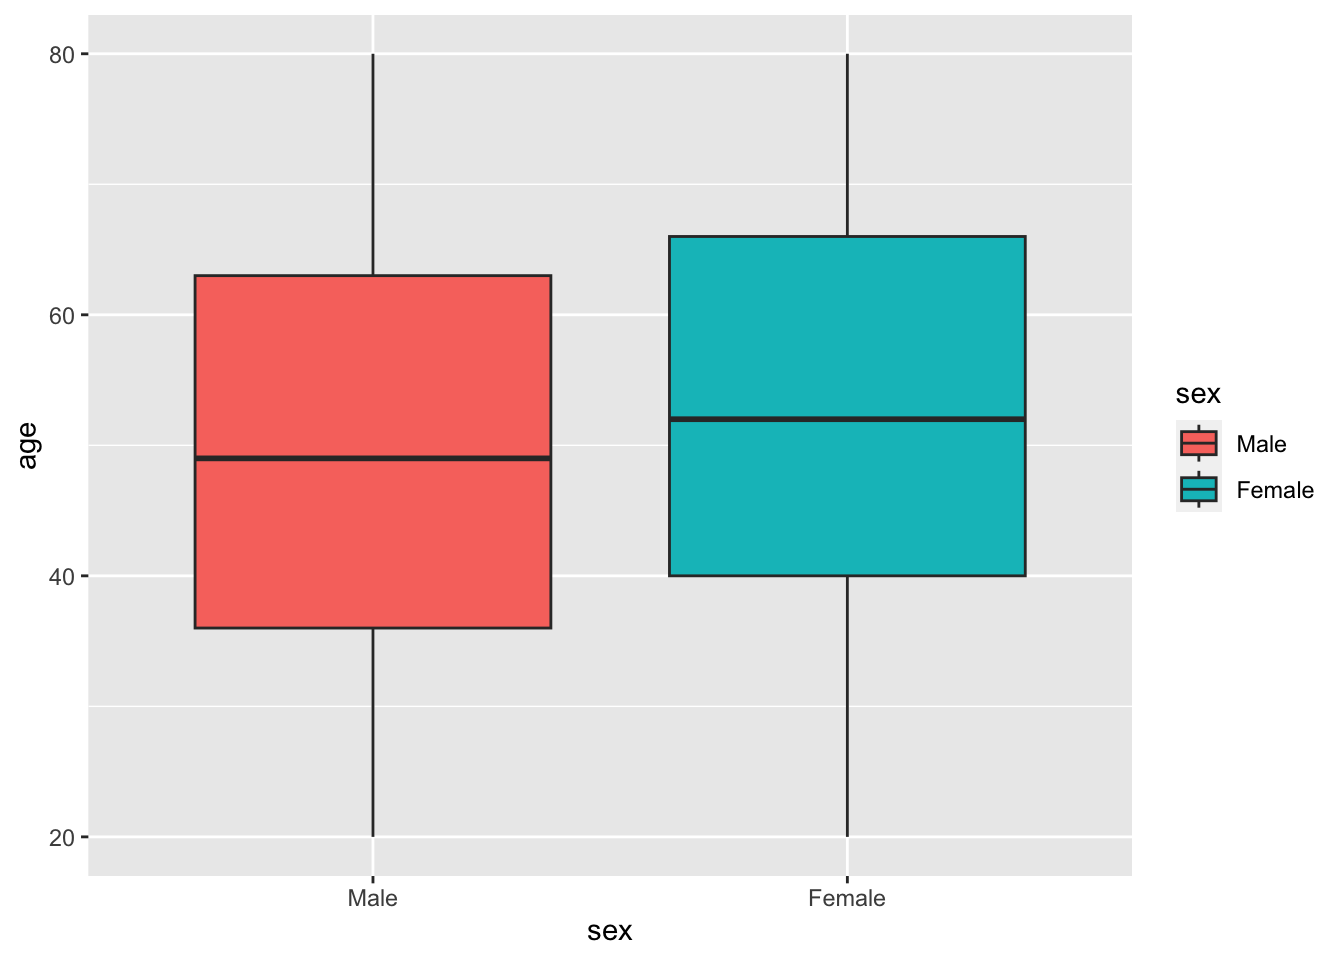
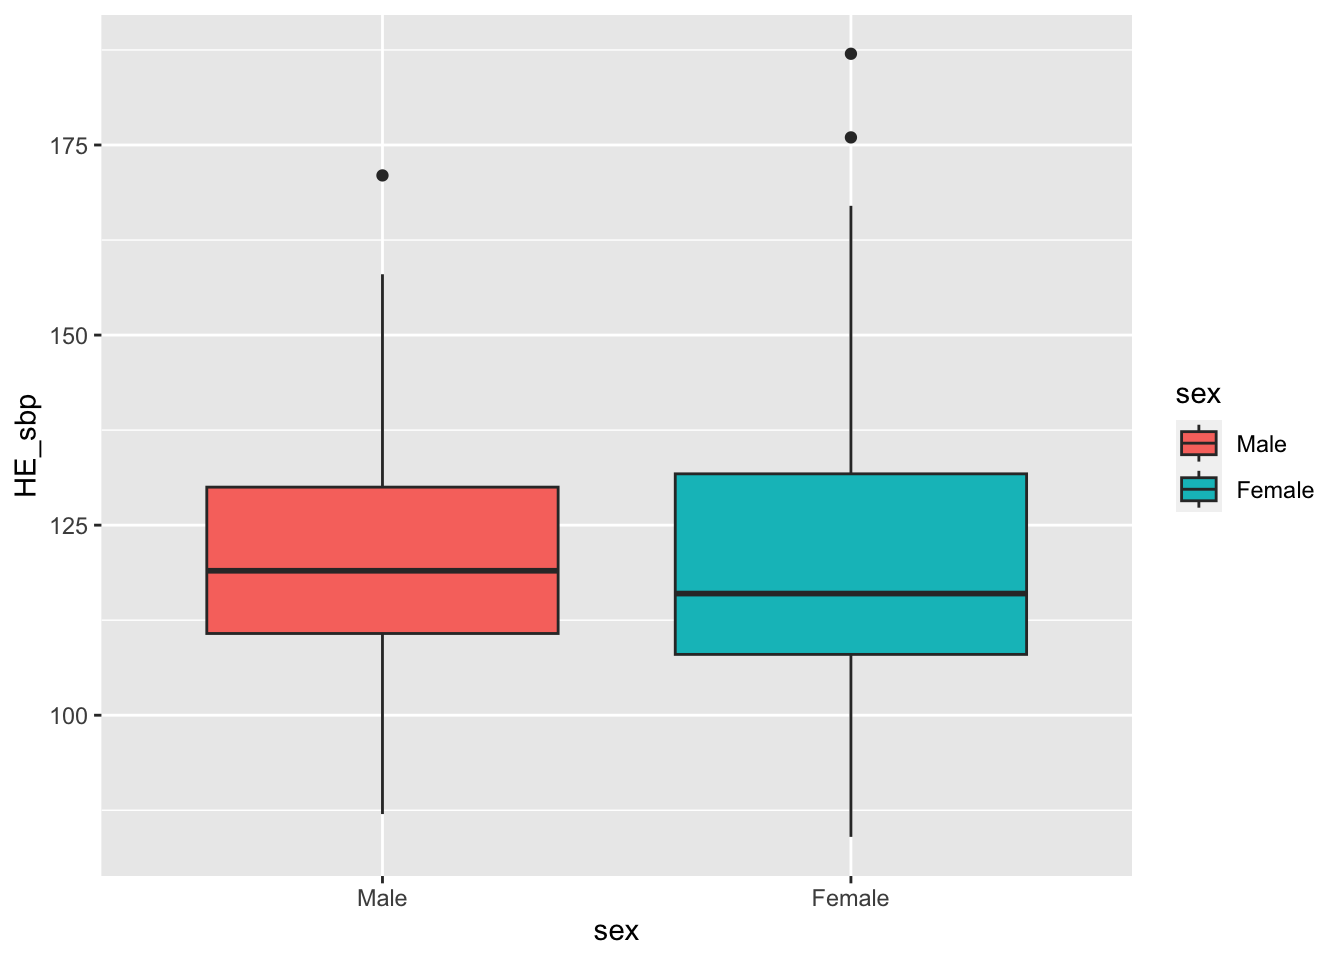
Built site for gh-pages

diff --git a/compare_two_groups.html b/compare_two_groups.html
@@ -272,14 +272,14 @@ pre > code.sourceCode > span > a:first-child::before { text-decoration: underlin
 <span id="cb3-4"><a href="#cb3-4" aria-hidden="true" tabindex="-1"></a><span class="co"># 1: Male, 2: Female</span></span>
 <span id="cb3-5"><a href="#cb3-5" aria-hidden="true" tabindex="-1"></a><span class="fu">levels</span>(data<span class="sc">$</span>sex)<span class="ot">=</span><span class="fu">c</span>(<span class="st">"Male"</span>,<span class="st">"Female"</span>)</span>
 <span id="cb3-6"><a href="#cb3-6" aria-hidden="true" tabindex="-1"></a></span>
-<span id="cb3-7"><a href="#cb3-7" aria-hidden="true" tabindex="-1"></a>knitr<span class="sc">::</span><span class="fu">kable</span>(<span class="fu">head</span>(data[,<span class="fu">c</span>(<span class="st">"ID"</span>,<span class="st">"sex"</span>,<span class="st">"age"</span>,<span class="st">"HE_sbp1"</span>,<span class="st">"HE_sbp2"</span>)], <span class="dv">10</span>))</span></code><button title="Copy to Clipboard" class="code-copy-button"><i class="bi"></i></button></pre></div>
+<span id="cb3-7"><a href="#cb3-7" aria-hidden="true" tabindex="-1"></a>knitr<span class="sc">::</span><span class="fu">kable</span>(<span class="fu">head</span>(data[,<span class="fu">c</span>(<span class="st">"ID"</span>,<span class="st">"sex"</span>,<span class="st">"HE_sbp"</span>,<span class="st">"HE_sbp1"</span>,<span class="st">"HE_sbp2"</span>)], <span class="dv">10</span>))</span></code><button title="Copy to Clipboard" class="code-copy-button"><i class="bi"></i></button></pre></div>
 <div class="cell-output-display">
 <table class="table table-sm table-striped small">
 <thead>
 <tr class="header">
 <th style="text-align: left;">ID</th>
 <th style="text-align: left;">sex</th>
-<th style="text-align: right;">age</th>
+<th style="text-align: right;">HE_sbp</th>
 <th style="text-align: right;">HE_sbp1</th>
 <th style="text-align: right;">HE_sbp2</th>
 </tr>
@@ -288,127 +288,132 @@ pre > code.sourceCode > span > a:first-child::before { text-decoration: underlin
 <tr class="odd">
 <td style="text-align: left;">A531220402</td>
 <td style="text-align: left;">Female</td>
-<td style="text-align: right;">45</td>
+<td style="text-align: right;">103</td>
 <td style="text-align: right;">106</td>
 <td style="text-align: right;">104</td>
 </tr>
 <tr class="even">
 <td style="text-align: left;">L501322401</td>
 <td style="text-align: left;">Male</td>
-<td style="text-align: right;">51</td>
+<td style="text-align: right;">113</td>
 <td style="text-align: right;">120</td>
 <td style="text-align: right;">112</td>
 </tr>
 <tr class="odd">
 <td style="text-align: left;">D510288401</td>
 <td style="text-align: left;">Female</td>
-<td style="text-align: right;">23</td>
+<td style="text-align: right;">111</td>
 <td style="text-align: right;">114</td>
 <td style="text-align: right;">112</td>
 </tr>
 <tr class="even">
 <td style="text-align: left;">M503205101</td>
 <td style="text-align: left;">Female</td>
-<td style="text-align: right;">68</td>
+<td style="text-align: right;">135</td>
 <td style="text-align: right;">140</td>
 <td style="text-align: right;">136</td>
 </tr>
 <tr class="odd">
 <td style="text-align: left;">B512234004</td>
 <td style="text-align: left;">Male</td>
-<td style="text-align: right;">28</td>
+<td style="text-align: right;">107</td>
 <td style="text-align: right;">110</td>
 <td style="text-align: right;">104</td>
 </tr>
 <tr class="even">
 <td style="text-align: left;">K501305402</td>
 <td style="text-align: left;">Female</td>
-<td style="text-align: right;">56</td>
+<td style="text-align: right;">143</td>
 <td style="text-align: right;">144</td>
 <td style="text-align: right;">144</td>
 </tr>
 <tr class="odd">
 <td style="text-align: left;">E506278202</td>
 <td style="text-align: left;">Female</td>
-<td style="text-align: right;">66</td>
+<td style="text-align: right;">129</td>
 <td style="text-align: right;">138</td>
 <td style="text-align: right;">132</td>
 </tr>
 <tr class="even">
 <td style="text-align: left;">A509211902</td>
 <td style="text-align: left;">Male</td>
-<td style="text-align: right;">49</td>
+<td style="text-align: right;">136</td>
 <td style="text-align: right;">134</td>
 <td style="text-align: right;">136</td>
 </tr>
 <tr class="odd">
 <td style="text-align: left;">H542222102</td>
 <td style="text-align: left;">Female</td>
-<td style="text-align: right;">71</td>
+<td style="text-align: right;">187</td>
 <td style="text-align: right;">194</td>
 <td style="text-align: right;">188</td>
 </tr>
 <tr class="even">
 <td style="text-align: left;">N505230601</td>
 <td style="text-align: left;">Female</td>
-<td style="text-align: right;">36</td>
+<td style="text-align: right;">99</td>
 <td style="text-align: right;">98</td>
 <td style="text-align: right;">98</td>
 </tr>
 </tbody>
 </table>
 </div>
-<div class="sourceCode cell-code" id="cb4"><pre class="sourceCode r code-with-copy"><code class="sourceCode r"><span id="cb4-1"><a href="#cb4-1" aria-hidden="true" tabindex="-1"></a>pp <span class="ot">&lt;-</span> <span class="fu">ggplot</span>(data,<span class="fu">aes</span>(<span class="at">x=</span>sex, <span class="at">y=</span> age, <span class="at">fill=</span>sex)) <span class="sc">+</span> <span class="fu">geom_boxplot</span>()</span>
+<div class="sourceCode cell-code" id="cb4"><pre class="sourceCode r code-with-copy"><code class="sourceCode r"><span id="cb4-1"><a href="#cb4-1" aria-hidden="true" tabindex="-1"></a>pp <span class="ot">&lt;-</span> <span class="fu">ggplot</span>(data,<span class="fu">aes</span>(<span class="at">x=</span>sex, <span class="at">y=</span> HE_sbp, <span class="at">fill=</span>sex)) <span class="sc">+</span> <span class="fu">geom_boxplot</span>()</span>
 <span id="cb4-2"><a href="#cb4-2" aria-hidden="true" tabindex="-1"></a>pp</span></code><button title="Copy to Clipboard" class="code-copy-button"><i class="bi"></i></button></pre></div>
+<div class="cell-output cell-output-stderr">
+<pre><code>Warning: Removed 2 rows containing non-finite values (`stat_boxplot()`).</code></pre>
+</div>
 <div class="cell-output-display">
 <p><img src="compare_two_groups_files/figure-html/unnamed-chunk-1-1.png" class="img-fluid" width="672"></p>
 </div>
-<div class="sourceCode cell-code" id="cb5"><pre class="sourceCode r code-with-copy"><code class="sourceCode r"><span id="cb5-1"><a href="#cb5-1" aria-hidden="true" tabindex="-1"></a><span class="co"># 등분산 가정 검토</span></span>
-<span id="cb5-2"><a href="#cb5-2" aria-hidden="true" tabindex="-1"></a><span class="fu">leveneTest</span>(age <span class="sc">~</span> sex, <span class="at">data=</span>data, <span class="at">center =</span> mean)</span></code><button title="Copy to Clipboard" class="code-copy-button"><i class="bi"></i></button></pre></div>
+<div class="sourceCode cell-code" id="cb6"><pre class="sourceCode r code-with-copy"><code class="sourceCode r"><span id="cb6-1"><a href="#cb6-1" aria-hidden="true" tabindex="-1"></a><span class="co"># 등분산 가정 검토</span></span>
+<span id="cb6-2"><a href="#cb6-2" aria-hidden="true" tabindex="-1"></a><span class="fu">leveneTest</span>(HE_sbp <span class="sc">~</span> sex, <span class="at">data=</span>data, <span class="at">center =</span> mean)</span></code><button title="Copy to Clipboard" class="code-copy-button"><i class="bi"></i></button></pre></div>
 <div class="cell-output cell-output-stdout">
 <pre><code>Levene's Test for Homogeneity of Variance (center = mean)
-       Df F value Pr(&gt;F)
-group   1  1.2878  0.257
-      498               </code></pre>
+       Df F value   Pr(&gt;F)   
+group   1  9.1647 0.002596 **
+      496                    
+---
+Signif. codes:  0 '***' 0.001 '**' 0.01 '*' 0.05 '.' 0.1 ' ' 1</code></pre>
 </div>
-<div class="sourceCode cell-code" id="cb7"><pre class="sourceCode r code-with-copy"><code class="sourceCode r"><span id="cb7-1"><a href="#cb7-1" aria-hidden="true" tabindex="-1"></a><span class="co"># 등분산 가정이 만족할 때</span></span>
-<span id="cb7-2"><a href="#cb7-2" aria-hidden="true" tabindex="-1"></a><span class="fu">t.test</span>(age<span class="sc">~</span>sex, <span class="at">data=</span>data, <span class="at">var.equal =</span> <span class="cn">TRUE</span>)</span></code><button title="Copy to Clipboard" class="code-copy-button"><i class="bi"></i></button></pre></div>
+<div class="sourceCode cell-code" id="cb8"><pre class="sourceCode r code-with-copy"><code class="sourceCode r"><span id="cb8-1"><a href="#cb8-1" aria-hidden="true" tabindex="-1"></a><span class="co"># 등분산 가정이 만족할 때</span></span>
+<span id="cb8-2"><a href="#cb8-2" aria-hidden="true" tabindex="-1"></a><span class="fu">t.test</span>(HE_sbp<span class="sc">~</span>sex, <span class="at">data=</span>data, <span class="at">var.equal =</span> <span class="cn">TRUE</span>)</span></code><button title="Copy to Clipboard" class="code-copy-button"><i class="bi"></i></button></pre></div>
 <div class="cell-output cell-output-stdout">
 <pre><code>
     Two Sample t-test
 
-data:  age by sex
-t = -1.6103, df = 498, p-value = 0.108
+data:  HE_sbp by sex
+t = 0.44946, df = 496, p-value = 0.6533
 alternative hypothesis: true difference in means between group Male and group Female is not equal to 0
 95 percent confidence interval:
- -5.482809  0.543606
+ -2.161881  3.444372
 sample estimates:
   mean in group Male mean in group Female 
-            49.89151             52.36111 </code></pre>
+            120.5189             119.8776 </code></pre>
 </div>
-<div class="sourceCode cell-code" id="cb9"><pre class="sourceCode r code-with-copy"><code class="sourceCode r"><span id="cb9-1"><a href="#cb9-1" aria-hidden="true" tabindex="-1"></a><span class="co"># 등분산 가정이 만족하지 않을 때</span></span>
-<span id="cb9-2"><a href="#cb9-2" aria-hidden="true" tabindex="-1"></a><span class="fu">t.test</span>(age<span class="sc">~</span>sex, <span class="at">data=</span>data, <span class="at">var.equal =</span> <span class="cn">FALSE</span>)</span></code><button title="Copy to Clipboard" class="code-copy-button"><i class="bi"></i></button></pre></div>
+<div class="sourceCode cell-code" id="cb10"><pre class="sourceCode r code-with-copy"><code class="sourceCode r"><span id="cb10-1"><a href="#cb10-1" aria-hidden="true" tabindex="-1"></a><span class="co"># 등분산 가정이 만족하지 않을 때</span></span>
+<span id="cb10-2"><a href="#cb10-2" aria-hidden="true" tabindex="-1"></a><span class="fu">t.test</span>(HE_sbp<span class="sc">~</span>sex, <span class="at">data=</span>data, <span class="at">var.equal =</span> <span class="cn">FALSE</span>)</span></code><button title="Copy to Clipboard" class="code-copy-button"><i class="bi"></i></button></pre></div>
 <div class="cell-output cell-output-stdout">
 <pre><code>
     Welch Two Sample t-test
 
-data:  age by sex
-t = -1.598, df = 441.53, p-value = 0.1108
+data:  HE_sbp by sex
+t = 0.46309, df = 491.41, p-value = 0.6435
 alternative hypothesis: true difference in means between group Male and group Female is not equal to 0
 95 percent confidence interval:
- -5.5069652  0.5677619
+ -2.079413  3.361904
 sample estimates:
   mean in group Male mean in group Female 
-            49.89151             52.36111 </code></pre>
+            120.5189             119.8776 </code></pre>
 </div>
 </div>
 </section>
 <section id="쌍을-이룬-데이터의-평균비교paired-t-test" class="level2" data-number="4.2">
 <h2 data-number="4.2" class="anchored" data-anchor-id="쌍을-이룬-데이터의-평균비교paired-t-test"><span class="header-section-number">4.2</span> 쌍을 이룬 데이터의 평균비교(paired t-test)</h2>
 <div class="cell">
-<div class="sourceCode cell-code" id="cb11"><pre class="sourceCode r code-with-copy"><code class="sourceCode r"><span id="cb11-1"><a href="#cb11-1" aria-hidden="true" tabindex="-1"></a><span class="co"># Paired t-test</span></span>
-<span id="cb11-2"><a href="#cb11-2" aria-hidden="true" tabindex="-1"></a>data <span class="ot">=</span> <span class="fu">read_sav</span>(<span class="st">"HN19_실습.sav"</span>)</span>
-<span id="cb11-3"><a href="#cb11-3" aria-hidden="true" tabindex="-1"></a><span class="fu">t.test</span>(data<span class="sc">$</span>HE_sbp1,data<span class="sc">$</span>HE_sbp2,<span class="at">paired=</span><span class="cn">TRUE</span>)</span></code><button title="Copy to Clipboard" class="code-copy-button"><i class="bi"></i></button></pre></div>
+<div class="sourceCode cell-code" id="cb12"><pre class="sourceCode r code-with-copy"><code class="sourceCode r"><span id="cb12-1"><a href="#cb12-1" aria-hidden="true" tabindex="-1"></a><span class="co"># Paired t-test</span></span>
+<span id="cb12-2"><a href="#cb12-2" aria-hidden="true" tabindex="-1"></a>data <span class="ot">=</span> <span class="fu">read_sav</span>(<span class="st">"HN19_실습.sav"</span>)</span>
+<span id="cb12-3"><a href="#cb12-3" aria-hidden="true" tabindex="-1"></a><span class="fu">t.test</span>(data<span class="sc">$</span>HE_sbp1,data<span class="sc">$</span>HE_sbp2,<span class="at">paired=</span><span class="cn">TRUE</span>)</span></code><button title="Copy to Clipboard" class="code-copy-button"><i class="bi"></i></button></pre></div>
 <div class="cell-output cell-output-stdout">
 <pre><code>
     Paired t-test
@@ -429,12 +434,12 @@ mean difference
 <section id="shapiro-wilk-test" class="level3" data-number="4.3.1">
 <h3 data-number="4.3.1" class="anchored" data-anchor-id="shapiro-wilk-test"><span class="header-section-number">4.3.1</span> Shapiro-Wilk test</h3>
 <div class="cell">
-<div class="sourceCode cell-code" id="cb13"><pre class="sourceCode r code-with-copy"><code class="sourceCode r"><span id="cb13-1"><a href="#cb13-1" aria-hidden="true" tabindex="-1"></a><span class="fu">library</span>(haven)</span>
-<span id="cb13-2"><a href="#cb13-2" aria-hidden="true" tabindex="-1"></a><span class="fu">library</span>(ggplot2)</span>
-<span id="cb13-3"><a href="#cb13-3" aria-hidden="true" tabindex="-1"></a><span class="fu">library</span>(car)</span>
-<span id="cb13-4"><a href="#cb13-4" aria-hidden="true" tabindex="-1"></a></span>
-<span id="cb13-5"><a href="#cb13-5" aria-hidden="true" tabindex="-1"></a>data <span class="ot">=</span> <span class="fu">read_sav</span>(<span class="st">"HN19_실습.sav"</span>)</span>
-<span id="cb13-6"><a href="#cb13-6" aria-hidden="true" tabindex="-1"></a><span class="fu">shapiro.test</span>(data<span class="sc">$</span>HE_sbp)</span></code><button title="Copy to Clipboard" class="code-copy-button"><i class="bi"></i></button></pre></div>
+<div class="sourceCode cell-code" id="cb14"><pre class="sourceCode r code-with-copy"><code class="sourceCode r"><span id="cb14-1"><a href="#cb14-1" aria-hidden="true" tabindex="-1"></a><span class="fu">library</span>(haven)</span>
+<span id="cb14-2"><a href="#cb14-2" aria-hidden="true" tabindex="-1"></a><span class="fu">library</span>(ggplot2)</span>
+<span id="cb14-3"><a href="#cb14-3" aria-hidden="true" tabindex="-1"></a><span class="fu">library</span>(car)</span>
+<span id="cb14-4"><a href="#cb14-4" aria-hidden="true" tabindex="-1"></a></span>
+<span id="cb14-5"><a href="#cb14-5" aria-hidden="true" tabindex="-1"></a>data <span class="ot">=</span> <span class="fu">read_sav</span>(<span class="st">"HN19_실습.sav"</span>)</span>
+<span id="cb14-6"><a href="#cb14-6" aria-hidden="true" tabindex="-1"></a><span class="fu">shapiro.test</span>(data<span class="sc">$</span>HE_sbp)</span></code><button title="Copy to Clipboard" class="code-copy-button"><i class="bi"></i></button></pre></div>
 <div class="cell-output cell-output-stdout">
 <pre><code>
     Shapiro-Wilk normality test
@@ -447,7 +452,7 @@ W = 0.97678, p-value = 4.081e-07</code></pre>
 <section id="정규q-q-도표normal-q-q-plot" class="level3" data-number="4.3.2">
 <h3 data-number="4.3.2" class="anchored" data-anchor-id="정규q-q-도표normal-q-q-plot"><span class="header-section-number">4.3.2</span> 정규Q-Q 도표(Normal Q-Q plot)</h3>
 <div class="cell">
-<div class="sourceCode cell-code" id="cb15"><pre class="sourceCode r code-with-copy"><code class="sourceCode r"><span id="cb15-1"><a href="#cb15-1" aria-hidden="true" tabindex="-1"></a><span class="fu">qqnorm</span>(data<span class="sc">$</span>HE_sbp);<span class="fu">qqline</span>(data<span class="sc">$</span>HE_sbp)</span></code><button title="Copy to Clipboard" class="code-copy-button"><i class="bi"></i></button></pre></div>
+<div class="sourceCode cell-code" id="cb16"><pre class="sourceCode r code-with-copy"><code class="sourceCode r"><span id="cb16-1"><a href="#cb16-1" aria-hidden="true" tabindex="-1"></a><span class="fu">qqnorm</span>(data<span class="sc">$</span>HE_sbp);<span class="fu">qqline</span>(data<span class="sc">$</span>HE_sbp)</span></code><button title="Copy to Clipboard" class="code-copy-button"><i class="bi"></i></button></pre></div>
 <div class="cell-output-display">
 <p><img src="compare_two_groups_files/figure-html/unnamed-chunk-4-1.png" class="img-fluid" width="672"></p>
 </div>
@@ -456,8 +461,8 @@ W = 0.97678, p-value = 4.081e-07</code></pre>
 <section id="kolmogorov-smirnov-test" class="level3" data-number="4.3.3">
 <h3 data-number="4.3.3" class="anchored" data-anchor-id="kolmogorov-smirnov-test"><span class="header-section-number">4.3.3</span> Kolmogorov-Smirnov test</h3>
 <div class="cell">
-<div class="sourceCode cell-code" id="cb16"><pre class="sourceCode r code-with-copy"><code class="sourceCode r"><span id="cb16-1"><a href="#cb16-1" aria-hidden="true" tabindex="-1"></a>data <span class="ot">=</span> <span class="fu">read_sav</span>(<span class="st">"HN19_실습.sav"</span>)</span>
-<span id="cb16-2"><a href="#cb16-2" aria-hidden="true" tabindex="-1"></a><span class="fu">t.test</span>(data<span class="sc">$</span>HE_sbp1,data<span class="sc">$</span>HE_sbp2,<span class="at">paired=</span><span class="cn">TRUE</span>)</span></code><button title="Copy to Clipboard" class="code-copy-button"><i class="bi"></i></button></pre></div>
+<div class="sourceCode cell-code" id="cb17"><pre class="sourceCode r code-with-copy"><code class="sourceCode r"><span id="cb17-1"><a href="#cb17-1" aria-hidden="true" tabindex="-1"></a>data <span class="ot">=</span> <span class="fu">read_sav</span>(<span class="st">"HN19_실습.sav"</span>)</span>
+<span id="cb17-2"><a href="#cb17-2" aria-hidden="true" tabindex="-1"></a><span class="fu">t.test</span>(data<span class="sc">$</span>HE_sbp1,data<span class="sc">$</span>HE_sbp2,<span class="at">paired=</span><span class="cn">TRUE</span>)</span></code><button title="Copy to Clipboard" class="code-copy-button"><i class="bi"></i></button></pre></div>
 <div class="cell-output cell-output-stdout">
 <pre><code>
     Paired t-test
@@ -477,7 +482,7 @@ mean difference
 <section id="mann-whitney-u-test-or-wilcoxon-rank-sum-test" class="level2" data-number="4.4">
 <h2 data-number="4.4" class="anchored" data-anchor-id="mann-whitney-u-test-or-wilcoxon-rank-sum-test"><span class="header-section-number">4.4</span> Mann-Whitney U test (or Wilcoxon rank-sum test)</h2>
 <div class="cell">
-<div class="sourceCode cell-code" id="cb18"><pre class="sourceCode r code-with-copy"><code class="sourceCode r"><span id="cb18-1"><a href="#cb18-1" aria-hidden="true" tabindex="-1"></a><span class="fu">wilcox.test</span>(age<span class="sc">~</span>sex, <span class="at">data =</span> data)</span></code><button title="Copy to Clipboard" class="code-copy-button"><i class="bi"></i></button></pre></div>
+<div class="sourceCode cell-code" id="cb19"><pre class="sourceCode r code-with-copy"><code class="sourceCode r"><span id="cb19-1"><a href="#cb19-1" aria-hidden="true" tabindex="-1"></a><span class="fu">wilcox.test</span>(age<span class="sc">~</span>sex, <span class="at">data =</span> data)</span></code><button title="Copy to Clipboard" class="code-copy-button"><i class="bi"></i></button></pre></div>
 <div class="cell-output cell-output-stdout">
 <pre><code>
     Wilcoxon rank sum test with continuity correction
@@ -491,7 +496,7 @@ alternative hypothesis: true location shift is not equal to 0</code></pre>
 <section id="wilcoxon-signed-rank-test" class="level2" data-number="4.5">
 <h2 data-number="4.5" class="anchored" data-anchor-id="wilcoxon-signed-rank-test"><span class="header-section-number">4.5</span> Wilcoxon signed-rank test</h2>
 <div class="cell">
-<div class="sourceCode cell-code" id="cb20"><pre class="sourceCode r code-with-copy"><code class="sourceCode r"><span id="cb20-1"><a href="#cb20-1" aria-hidden="true" tabindex="-1"></a><span class="fu">wilcox.test</span>(data<span class="sc">$</span>HE_sbp1, data<span class="sc">$</span>HE_sbp2, <span class="at">paired =</span> <span class="cn">TRUE</span>)</span></code><button title="Copy to Clipboard" class="code-copy-button"><i class="bi"></i></button></pre></div>
+<div class="sourceCode cell-code" id="cb21"><pre class="sourceCode r code-with-copy"><code class="sourceCode r"><span id="cb21-1"><a href="#cb21-1" aria-hidden="true" tabindex="-1"></a><span class="fu">wilcox.test</span>(data<span class="sc">$</span>HE_sbp1, data<span class="sc">$</span>HE_sbp2, <span class="at">paired =</span> <span class="cn">TRUE</span>)</span></code><button title="Copy to Clipboard" class="code-copy-button"><i class="bi"></i></button></pre></div>
 <div class="cell-output cell-output-stdout">
 <pre><code>
     Wilcoxon signed rank test with continuity correction

diff --git a/descriptive_statistics.html b/descriptive_statistics.html
@@ -720,7 +720,7 @@ pre > code.sourceCode > span > a:first-child::before { text-decoration: underlin
 <div class="cell-output cell-output-stdout">
 <pre><code>
 다운로드된 바이너리 패키지들은 다음의 위치에 있습니다
-    /var/folders/yp/03fysc6x5mqb63q6zm6wp_dm0000gn/T//RtmpMyB6oI/downloaded_packages</code></pre>
+    /var/folders/yp/03fysc6x5mqb63q6zm6wp_dm0000gn/T//RtmpaGpIQg/downloaded_packages</code></pre>
 </div>
 <div class="sourceCode cell-code" id="cb49"><pre class="sourceCode r code-with-copy"><code class="sourceCode r"><span id="cb49-1"><a href="#cb49-1" aria-hidden="true" tabindex="-1"></a><span class="fu">library</span>(moments)</span>
 <span id="cb49-2"><a href="#cb49-2" aria-hidden="true" tabindex="-1"></a><span class="fu">skewness</span>(data<span class="sc">$</span>age)</span></code><button title="Copy to Clipboard" class="code-copy-button"><i class="bi"></i></button></pre></div>
